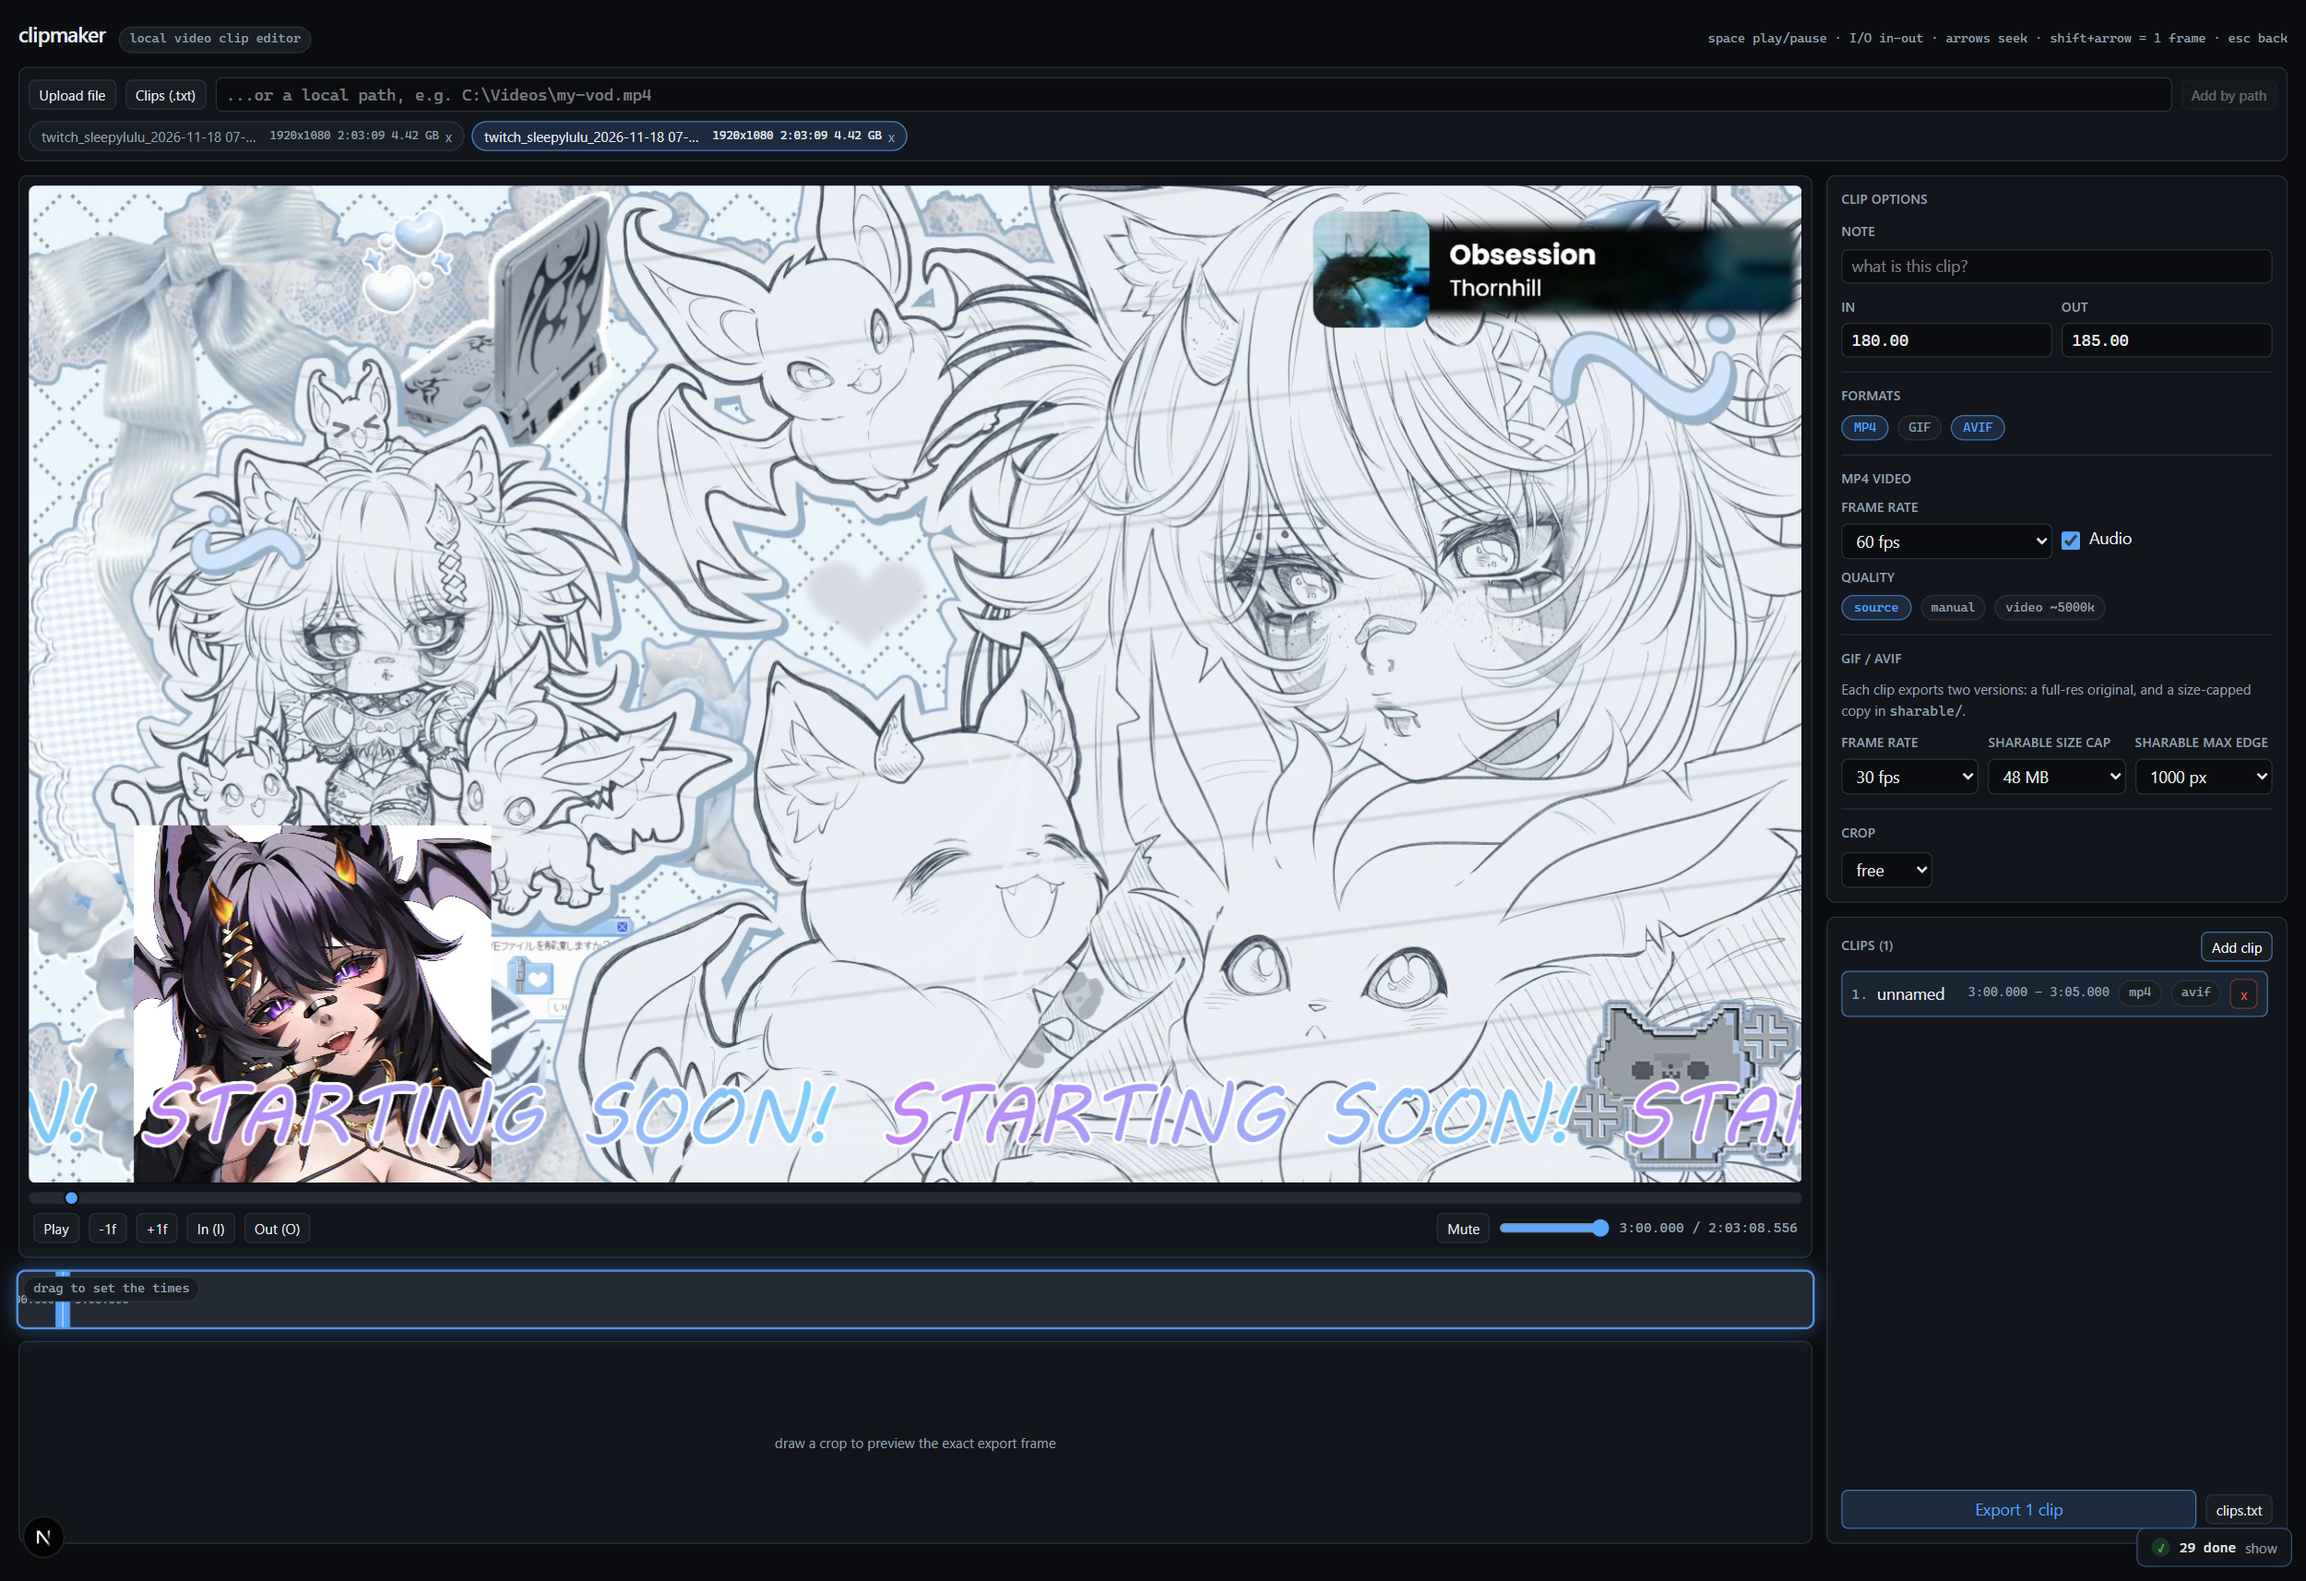
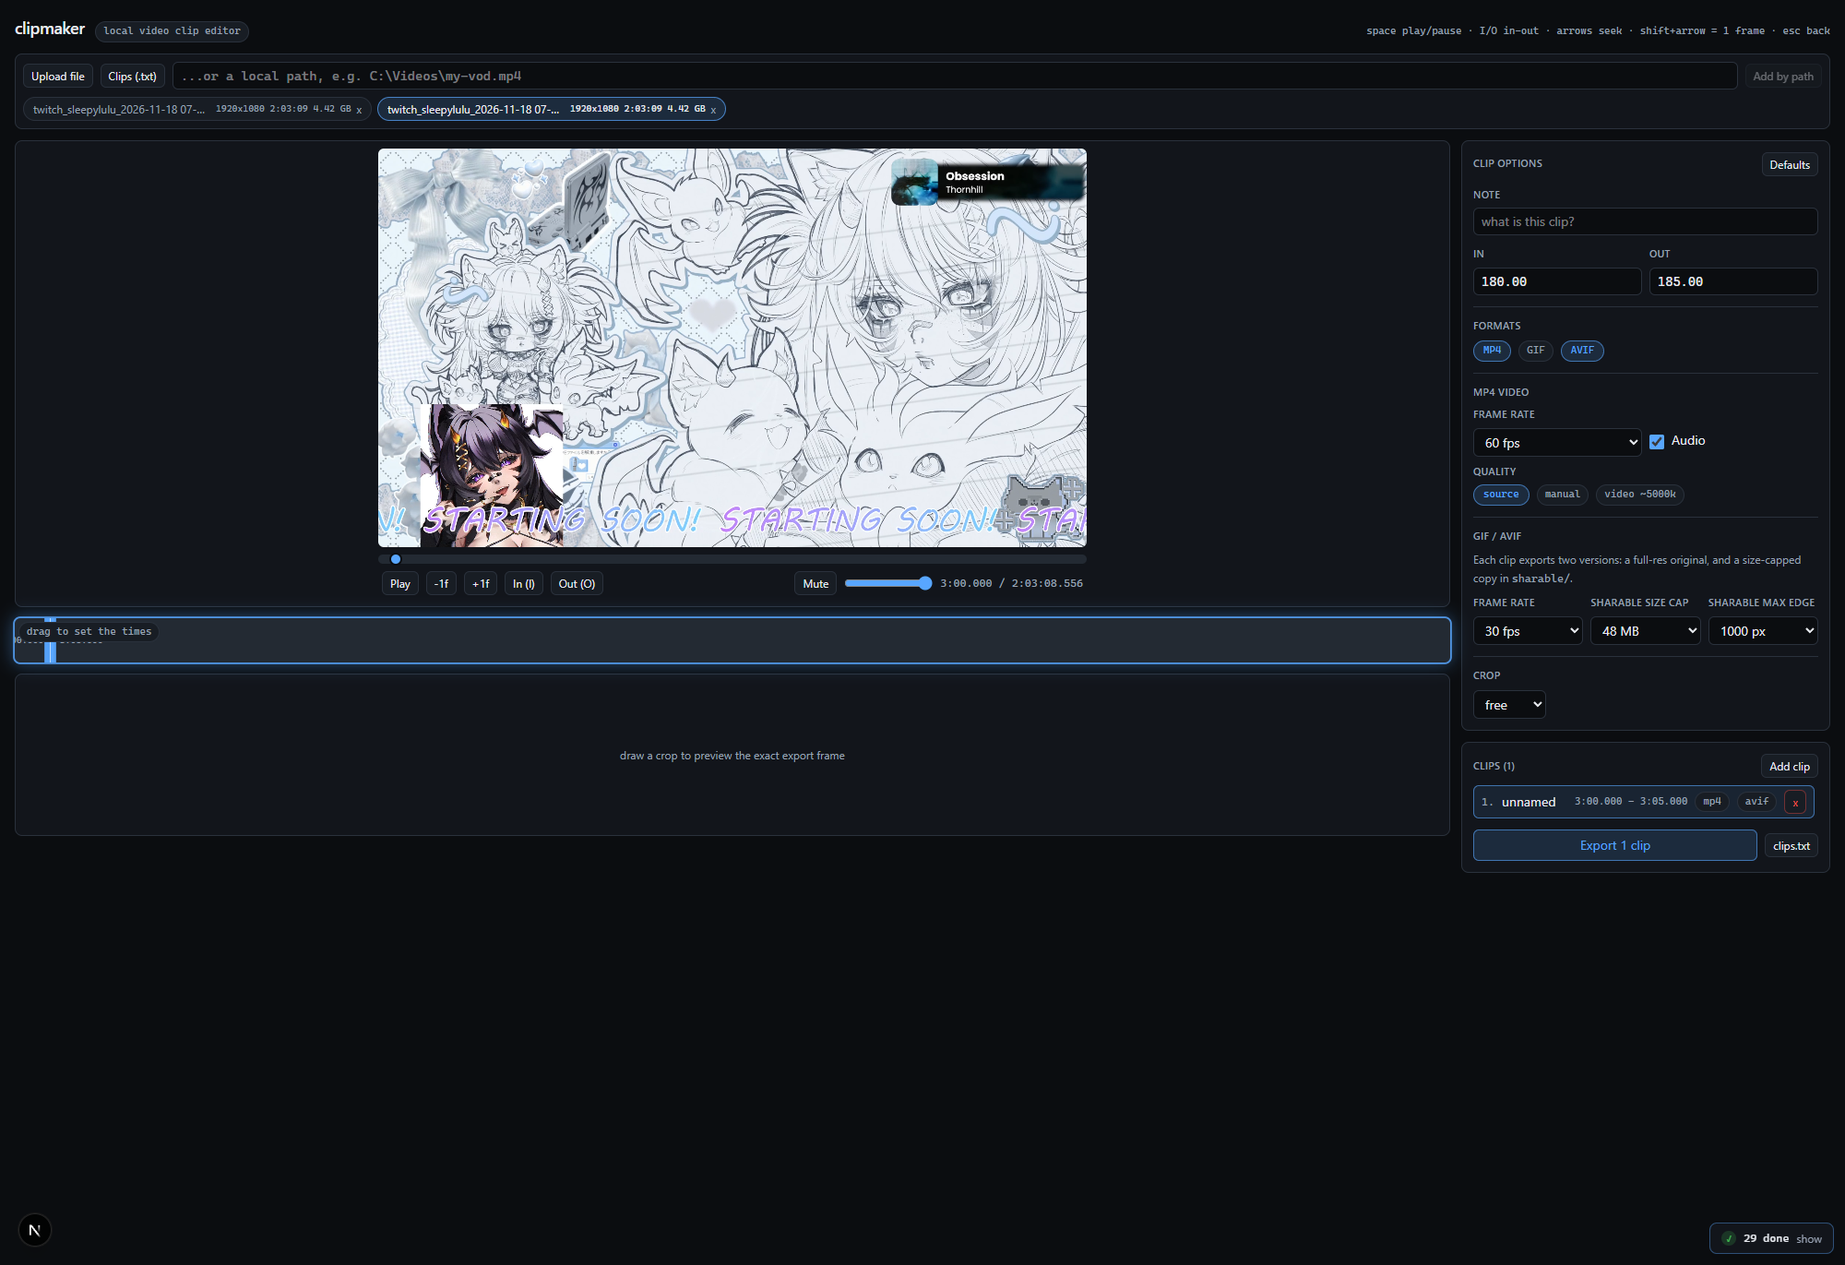
docs: sync README/AGENTS and reshoot screenshots
Document the UX pass: the width-capped player, the 420px clip list
cap, arrows seeking from focused buttons, playback suspending while
a range is dragged, and the new Defaults menu (new + imported clips
only; .data/defaults.json; GET/PUT /api/defaults; toDefaults
self-healing). Reshoot all four README screenshots with the new
layout.

Signed-by: omp (llamacpp Qwen3.8 27B Q6)

diff --git a/AGENTS.md b/AGENTS.md
@@ -33,13 +33,17 @@ src/lib/crop.ts     CropBox model, normalizeCrop (even, clamped, >=16px)
 src/lib/clipsTxt.ts parse Clips .txt notes (time ranges + # sections) + the
                     inverse clipsTxtForVideo serializer (round trip pinned
                     by test/clipsTxt.test.ts)
+src/lib/clips.ts    client-side sanitizers: toClip (untrusted clip -> ClipSpec) and
+                    toDefaults (untrusted defaults -> ClipDefaults, field-wise
+                    fallback to the shipped defaults)
 src/lib/args.ts     ffmpeg argument builders (mp4/gif/avif stages/preview)
 src/lib/jobs.ts     export list display order (newest batch first, clip order within)
 src/lib/stages.ts   structured export job stages (JobStage) + user-facing stage text
 src/lib/exportView.ts export view state machine (modal | pill)
 src/lib/clipSession.ts clip session state machine (preview, back position, focus, range, flow step)
 src/lib/avif.ts       avifDurationLevel - length-based AVIF encode warning (45s/60s)
-src/lib/types.ts    VideoInfo, ClipSpec, Job, ProbeResult + defaults
+src/lib/types.ts    VideoInfo, ClipSpec, ClipDefaults, Job, ProbeResult +
+                    defaultClip(note, defaults) / defaultClipDefaults()
 src/lib/human.ts    human sizes ("4.7 MB")
       -- everything above is pure and unit-tested (test/*.test.ts) --
 src/lib/ffmpeg.ts   ffmpeg/ffprobe discovery + spawn wrappers, progress,
@@ -97,10 +101,15 @@ Key invariants:
   applies to GIF/AVIF - `fps` is the shared intermediate's frame rate
   and the full tier's; `maxMB`/`maxEdge` cap the sharable tier (maxEdge
   options 256-1440; the ladder is capped at the source/crop width and
-  never upscales). New and imported clips default to
-  `formats: ["mp4", "avif"]` (gif is the opt-in fallback) and
-  `maxEdge: 1000`; the rest of the defaults are in
-  `types.ts:defaultClip()`.
+  never upscales). New and imported clips are created by
+  `defaultClip(note, defaults)` from the user's persisted
+  `ClipDefaults` (shipped values: `formats: ["mp4", "avif"]`,
+  `maxEdge: 1000`; the rest in `types.ts:defaultClipDefaults()`).
+- `ClipDefaults { formats, audio, fps, quality, anim }` - the export
+  options new and imported clips are created with; user-editable via
+  the Defaults toggle in the OptionsPanel, persisted in
+  `.data/defaults.json`, validated by `toDefaults` (lib/clips.ts).
+  Existing clips keep their own settings.
 - `Job { id, videoId, videoName, clip, clipNo, status, stage, pct,
   outputs, warning?, error?, createdAt }` - `status` is queued/running/
   done/error. `stage` is the structured `JobStage` (stages.ts) while
@@ -113,6 +122,9 @@ Key invariants:
 ## Disk layout (all gitignored, created lazily)
 
 - `.data/videos.json`, `.data/jobs.json` - persisted session state.
+- `.data/defaults.json` - new-clip defaults (`ClipDefaults`); created
+  on first save, loaded through `toDefaults` so a corrupt file
+  self-heals to the shipped defaults.
 - `uploads/<videoId>/<name>` - uploaded files.
 - `ingest/` - drop folder for huge files. Not created by the app (the
   user creates it, optionally at another location via
@@ -187,6 +199,10 @@ Key invariants:
   `toClip` in `lib/clips.ts`, max 500 clips). 404 for unknown videos.
   GET re-runs stored rows through `toClip`, so legacy shapes (the old
   `gif` key) self-migrate to `anim` on read.
+- `GET/PUT /api/defaults` - the new-clip defaults: GET returns the
+  `ClipDefaults` object directly; PUT sanitizes the body through
+  `toDefaults`, persists it to `.data/defaults.json`, and returns
+  `{ok: true}`.
 - `POST /api/preview` - `{videoId, time, crop}` -> one cropped JPEG at
   <=480px; `time` is floored to the frame grid, the same frame the
   export will cut at.
@@ -234,6 +250,21 @@ Key invariants:
 - Styling: Tailwind v4 with design tokens in `globals.css`
   (`@theme` colors + `.btn`, `.input`, `.panel`, `.chip` classes). New
   UI must reuse those tokens/classes, not redeclare colors.
+- **Player size**: the Stage centers its content (video box + scrub
+  bar + transport row) in a `max-w-3xl` (768px) wrapper, so the player
+  never grows with the panel on wide screens.
+- **Keyboard**: the Stage keydown listener ignores INPUT/TEXTAREA/
+  SELECT so typing in the In/Out/note inputs stays native; a focused
+  BUTTON passes only ArrowLeft/ArrowRight through to the seek handler
+  (space/I/O/Esc keep native button behavior).
+- **Range-drag pauses playback**: while an in/out handle, a range
+  move, or a new-range draw is in progress, the Timeline reports it
+  via its `onDragChange` prop; the page pauses playback (only if it
+  was playing) and restores the playing state on release, so the frame
+  under the pointer is the exact frame the clip will start on.
+- **Clip list scroll cap**: the queue list is capped at 420px (~12
+  rows) and scrolls internally at every breakpoint
+  (`max-h-[420px]`); rows are compact (`py-1`).
 - The stage measures its frame with a ResizeObserver. The crop overlay
   covers the whole stage and is always active: every pointer event on
   the video crops (click = plant, drag = draw, move, 8 resize handles);
@@ -303,8 +334,9 @@ Key invariants:
   Timeline, CropPreview; the right column stacks OptionsPanel (natural
   height) over ClipQueue, and the grid stretches the right column to
   the left column's height so ClipQueue (`xl:flex-1`) fills it and the
-  clip list scrolls inside. Below `xl` everything is one column and
-  the clip list renders at natural height. Export progress is not in
+  clip list scrolls inside (the list itself is capped at 420px at
+  every size - see the clip list scroll cap bullet above). Below `xl`
+  everything is one column. Export progress is not in
   the layout flow at all: a front-and-center modal (ExportModal) with
   a bottom-right pill (ExportPill) as its minimized form; both hide
   themselves when no job exists.
@@ -332,6 +364,18 @@ Key invariants:
   quality) renders only when the clip's formats include mp4, and the
   the GIF / AVIF section (frame rate, sharable size cap, sharable max
   edge) only when gif/avif is selected.
+- **Defaults menu**: the OptionsPanel header row (next to the
+  "Clip options" label) has a `Defaults` toggle (active:
+  `border-accent/60 text-accent`) that opens a `bg-panel2` section
+  for the new-clip settings: format pills (at least one kept by
+  `toggleDefaultsFormat`), MP4 frame rate, audio, MP4 quality
+  (source/manual + kbit), and GIF/AVIF frame rate / size cap / max
+  edge. Every change PUTs `/api/defaults` immediately (no debounce);
+  the page fetches the object on mount. New drafts (`freshDraft` in
+  page.tsx) and imported clips are created via
+  `defaultClip(note, defaults)`; existing clips keep their own
+  settings, and "Add clip" with a clip selected still copies that
+  clip's draft (the draft model is unchanged).
 - **AVIF duration warning**: AV1 encodes are slow, so a clip whose
   formats include avif warns by length - yellow (`text-warn`) above 45s,
   red (`text-danger`) above 60s. The OptionsPanel shows it in the
@@ -377,9 +421,9 @@ Key invariants:
 
 ## Verification
 
-- `bun test` - 156 unit tests over the pure libs (times, bitrate,
-  avif, ladder, names, crop, args, clipsTxt, clips, jobs, stages,
-  exportView, clipSession, ingest, ffmpeg's once).
+- `bun test` - 163 unit tests over the pure libs (times, bitrate,
+  avif, ladder, names, crop, args, clipsTxt, clips, types, jobs,
+  stages, exportView, clipSession, ingest, ffmpeg's once).
 - `bunx tsc --noEmit` - typecheck.
 - End-to-end: load a video by path, mark in/out, draw a crop, export;
   check the job output with ffprobe (duration within 1.5 frames of the

diff --git a/README.md b/README.md
@@ -10,14 +10,16 @@ size-capped "sharable" copy that fits the cap you set.
 Everything runs on your machine: the video files never leave it, and
 exports are encoded with your local `ffmpeg` (NVENC GPU encoding is
 used automatically when available). Your clip lists are saved per
-video as project files (`.data/clips.json`) and survive reloads and
+video as project files (`.data/clips.json`), and your default export
+settings for new clips (`.data/defaults.json`) survive reloads and
 restarts.
 
 ## At a glance
 
 ![](docs/screenshot-1-add.png)
 
-Freshly loaded: the video plays on the left, the clip queue is on the
+Freshly loaded: the video plays on the left (the player is width-capped
+so it stays a sensible size on wide screens), the clip queue is on the
 right. "Add clip" glows until you pick a starting point.
 
 ![](docs/screenshot-2-times.png)
@@ -70,6 +72,9 @@ For a production build: `bun run build && bun run start` (same port).
    view, and double-click (or the `fit` button) returns to the whole
    video. While dragging the range near a track edge, the view
    auto-scrolls, so you can carry a clip across the whole video.
+   While you drag the in/out handles (or draw a new range), playback is
+   temporarily paused so the frame under your pointer stays exactly
+   where you put it; if it was playing, it resumes when you let go.
 3. **Crop (optional)** - click and drag a rectangle over the video (a
    plain click plants a small crop at that point). You can move it,
    resize it from any of the 8 handles, and lock the aspect ratio
@@ -88,7 +93,10 @@ For a production build: `bun run build && bun run start` (same port).
    the max edge just keeps the best resolution it has. The full-res
    original is always exported with it, no cap. AVIF encodes are slow,
    so a clip that includes AVIF warns in yellow once it is longer than
-   45 seconds and in red above 60 seconds.
+   45 seconds and in red above 60 seconds. The **Defaults** button at
+   the top of the clip options panel sets these options once for all
+   new and imported clips (persisted in `.data/defaults.json`);
+   existing clips always keep their own settings.
 5. **"Add clip"** starts a clip: it is created right away (at the
    playhead if you have not marked a range yet) and selected, and the
    app guides you - the timeline glows so you can set the exact times,
@@ -122,6 +130,8 @@ deselect the clip.
 
 Keyboard: `space` play/pause, `I`/`O` in/out, `left`/`right` seek,
 `shift` + `left`/`right` = one frame, `esc` back from a clip preview (deselects it).
+The arrow keys still seek the video even when a button (e.g. a format
+pill) has focus.
 
 ## Clips from a notes file
 
@@ -151,8 +161,9 @@ File format - one clip per line:
   clamped to the video's length.
 
 Imported clips get the default settings (MP4 + AVIF, audio on, MP4 at
-60 fps, GIF/AVIF at 30 fps) and can be adjusted individually in the
-queue before export.
+60 fps, GIF/AVIF at 30 fps - configurable via the **Defaults** button
+in the clip options) and can be adjusted individually in the queue
+before export.
 
 The other direction works too: the **"clips.txt"** button next to the
 Export button in the clip queue downloads your current clip list as a
@@ -207,8 +218,9 @@ If the original must stay in place, use "Add by path" instead.
   encodes are slower than GIFs but far smaller at the same quality.
   The sharable AVIF copy shrinks the same way as the sharable GIF -
   size and frame rate first, then quality.
-- Session data (loaded videos, clip lists, job history) lives in
-  `.data/`; running jobs are not resumable after a server restart.
+- Session data (loaded videos, clip lists, job history, new-clip
+  defaults) lives in `.data/`; running jobs are not resumable after a
+  server restart.
 - The web UI needs a browser with `fetch` streaming for uploads; it is
   tested in Chromium.
 
